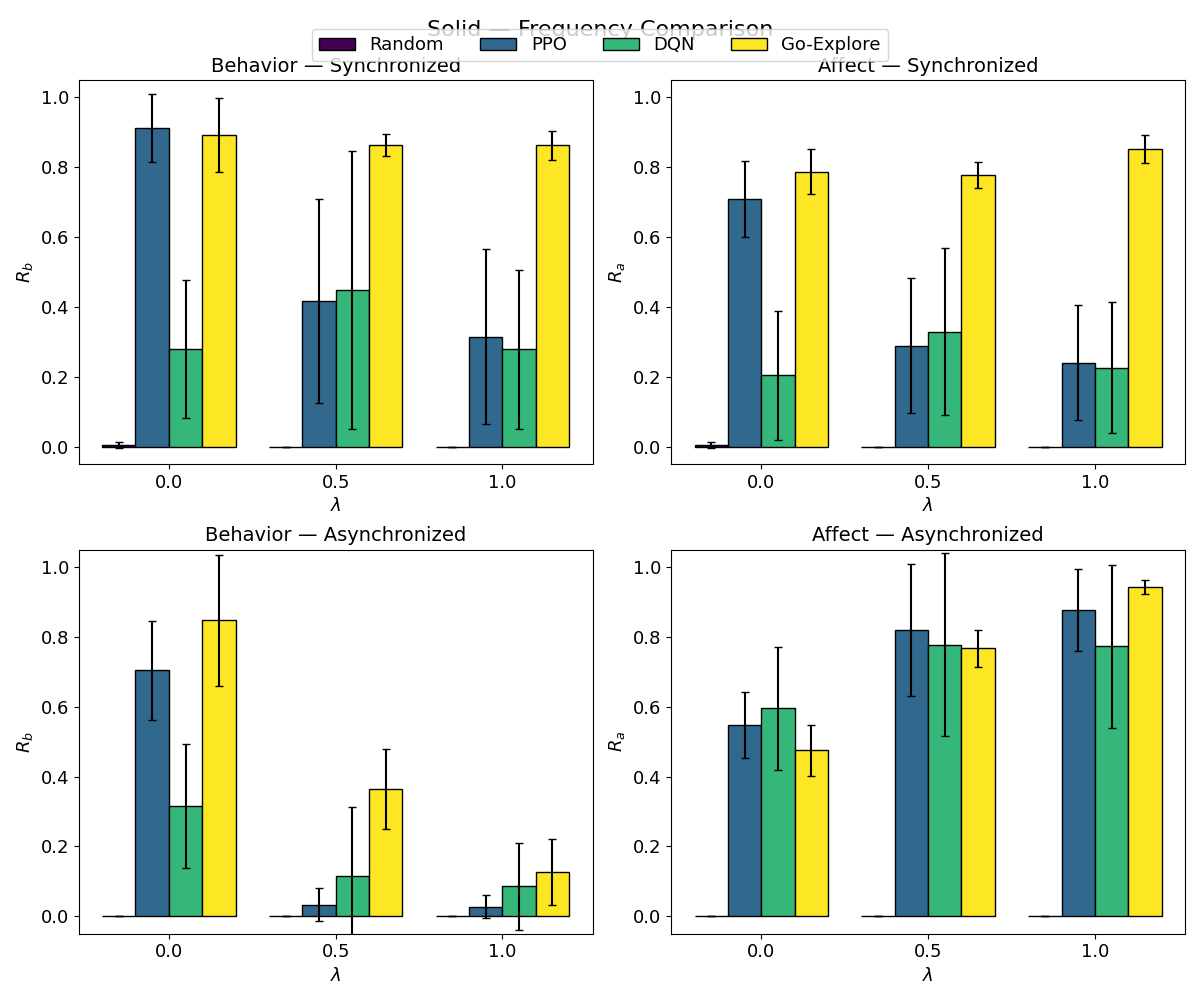
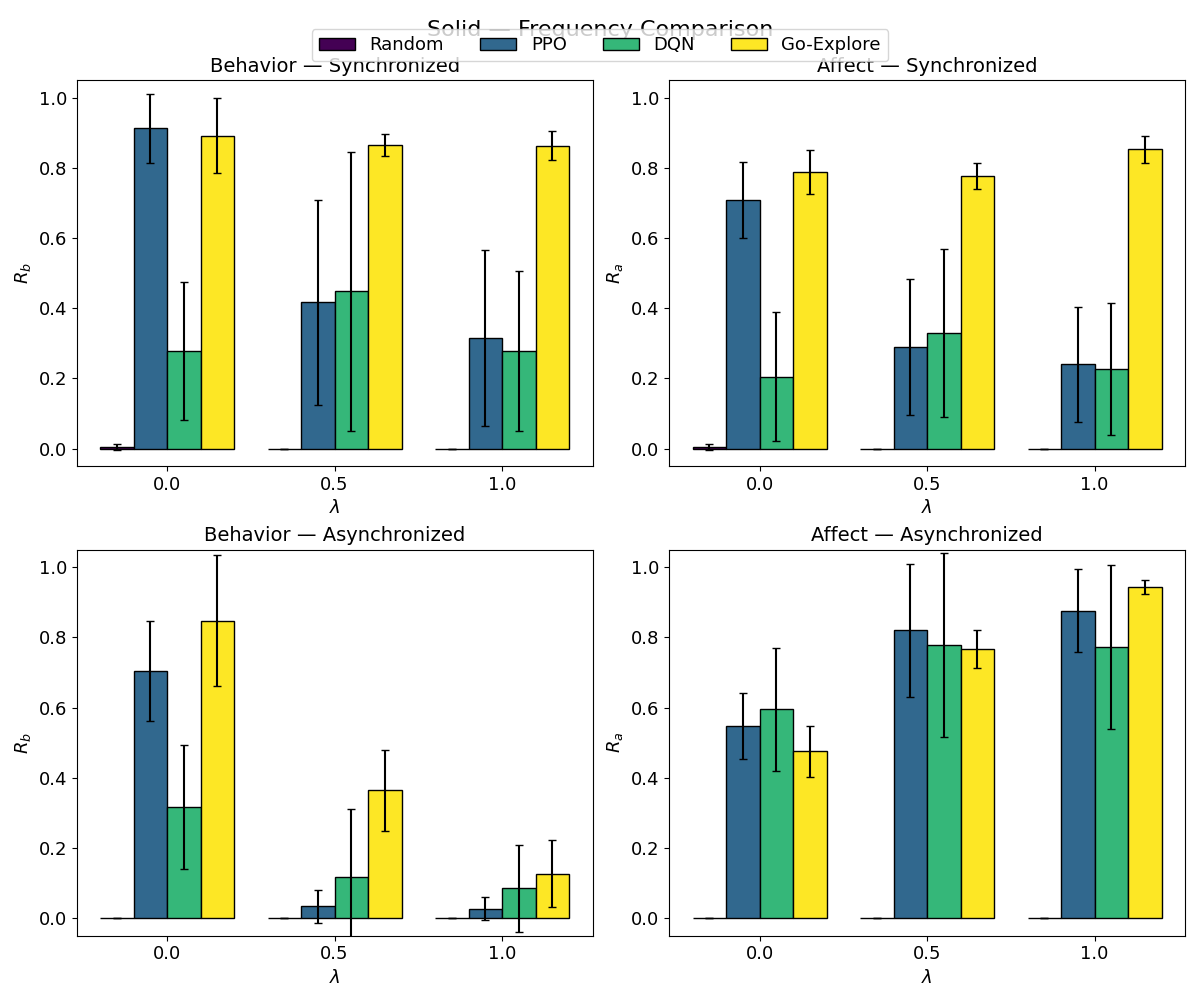
results

diff --git a/results/analysis/solid_personas/table_Ra_lambda1.tex b/results/analysis/solid_personas/table_Ra_lambda1.tex
@@ -1,0 +1,26 @@
+\begin{table}[ht]
+\centering
+\caption{$R_a$ results for $\lambda=1.0$. Random baseline uses $\lambda=0$ synchronized run; Minimize values are $1 - R_a^{\text{max}}$ for Random. \textbf{Bold} indicates best per game and metric.}
+\label{tab:ra_lambda1}
+\begin{tabular}{lccccccccc}
+\toprule
+Algorithm & \multicolumn{3}{c}{Racing} & \multicolumn{3}{c}{Platformer} & \multicolumn{3}{c}{FPS} \\
+\cmidrule(lr){2-4} \cmidrule(lr){5-7} \cmidrule(lr){8-10}
+ & Sync $R_a$ & Sync Return & Async $R_a$ & Sync $R_a$ & Sync Return & Async $R_a$ & Sync $R_a$ & Sync Return & Async $R_a$ \\
+\midrule
+\multicolumn{10}{l}{\textit{Maximize Arousal}} \\
+\midrule
+Random & 0.004 $\pm$ 0.009 & \textbf{0.815 $\pm$ 0.060} & 0.004 $\pm$ 0.009 & 0.050 $\pm$ 0.022 & \textbf{0.815 $\pm$ 0.056} & 0.050 $\pm$ 0.022 & 0.000 $\pm$ 0.000 & 0.075 $\pm$ 0.029 & 0.000 $\pm$ 0.000 \\
+PPO & 0.258 $\pm$ 0.165 & 0.680 $\pm$ 0.060 & 0.940 $\pm$ 0.084 & 0.140 $\pm$ 0.070 & 0.800 $\pm$ 0.081 & \textbf{1.000 $\pm$ 0.000} & 0.000 $\pm$ 0.000 & \textbf{0.743 $\pm$ 0.281} & 0.865 $\pm$ 0.218 \\
+DQN & 0.255 $\pm$ 0.242 & 0.631 $\pm$ 0.244 & 0.708 $\pm$ 0.276 & 0.163 $\pm$ 0.083 & 0.662 $\pm$ 0.133 & 0.947 $\pm$ 0.082 & 0.000 $\pm$ 0.000 & 0.168 $\pm$ 0.053 & \textbf{0.895 $\pm$ 0.102} \\
+Go-Explore & \textbf{0.925 $\pm$ 0.039} & 0.700 $\pm$ 0.050 & \textbf{0.965 $\pm$ 0.009} & \textbf{0.492 $\pm$ 0.081} & 0.708 $\pm$ 0.055 & 0.914 $\pm$ 0.026 & \textbf{0.168 $\pm$ 0.042} & 0.322 $\pm$ 0.091 & 0.823 $\pm$ 0.035 \\
+\midrule
+\multicolumn{10}{l}{\textit{Minimize Arousal}} \\
+\midrule
+Random & \textbf{0.996 $\pm$ 0.009} & 0.185 $\pm$ 0.060 & \textbf{0.996 $\pm$ 0.009} & \textbf{0.950 $\pm$ 0.022} & 0.185 $\pm$ 0.056 & \textbf{0.950 $\pm$ 0.022} & \textbf{1.000 $\pm$ 0.000} & \textbf{0.925 $\pm$ 0.029} & \textbf{1.000 $\pm$ 0.000} \\
+PPO & 0.222 $\pm$ 0.163 & 0.586 $\pm$ 0.154 & 0.812 $\pm$ 0.150 & 0.145 $\pm$ 0.091 & 0.320 $\pm$ 0.128 & 0.550 $\pm$ 0.283 & 0.008 $\pm$ 0.012 & 0.398 $\pm$ 0.298 & 0.818 $\pm$ 0.188 \\
+DQN & 0.198 $\pm$ 0.133 & \textbf{0.713 $\pm$ 0.242} & 0.838 $\pm$ 0.193 & 0.056 $\pm$ 0.055 & 0.258 $\pm$ 0.168 & 0.421 $\pm$ 0.404 & 0.052 $\pm$ 0.033 & 0.745 $\pm$ 0.159 & 0.767 $\pm$ 0.180 \\
+Go-Explore & 0.779 $\pm$ 0.040 & 0.331 $\pm$ 0.055 & 0.920 $\pm$ 0.030 & 0.355 $\pm$ 0.149 & \textbf{0.436 $\pm$ 0.120} & 0.754 $\pm$ 0.057 & 0.172 $\pm$ 0.014 & 0.870 $\pm$ 0.084 & 0.970 $\pm$ 0.007 \\
+\bottomrule
+\end{tabular}
+\end{table}

diff --git a/results/analysis/solid_personas/table_Rb_lambda1.tex b/results/analysis/solid_personas/table_Rb_lambda1.tex
@@ -1,0 +1,26 @@
+\begin{table}[ht]
+\centering
+\caption{$R_b$ results for $\lambda=1.0$. Random baseline uses $\lambda=0$ synchronized run. \textbf{Bold} indicates best per game and condition.}
+\label{tab:rb_lambda1}
+\begin{tabular}{lcccccc}
+\toprule
+Algorithm & \multicolumn{2}{c}{Racing} & \multicolumn{2}{c}{Platformer} & \multicolumn{2}{c}{FPS} \\
+\cmidrule(lr){2-3} \cmidrule(lr){4-5} \cmidrule(lr){6-7}
+ & Sync & Async & Sync & Async & Sync & Async \\
+\midrule
+\multicolumn{7}{l}{\textit{Maximize Arousal}} \\
+\midrule
+Random & 0.004 $\pm$ 0.009 & 0.004 $\pm$ 0.009 & 0.057 $\pm$ 0.027 & \textbf{0.057 $\pm$ 0.027} & 0.000 $\pm$ 0.000 & 0.000 $\pm$ 0.000 \\
+PPO & 0.321 $\pm$ 0.241 & 0.029 $\pm$ 0.035 & 0.217 $\pm$ 0.125 & 0.000 $\pm$ 0.000 & 0.004 $\pm$ 0.009 & 0.000 $\pm$ 0.000 \\
+DQN & 0.312 $\pm$ 0.288 & \textbf{0.108 $\pm$ 0.171} & 0.253 $\pm$ 0.125 & 0.011 $\pm$ 0.019 & 0.000 $\pm$ 0.000 & 0.000 $\pm$ 0.000 \\
+Go-Explore & \textbf{0.929 $\pm$ 0.040} & 0.100 $\pm$ 0.081 & \textbf{0.554 $\pm$ 0.100} & 0.053 $\pm$ 0.030 & \textbf{0.188 $\pm$ 0.041} & \textbf{0.060 $\pm$ 0.020} \\
+\midrule
+\multicolumn{7}{l}{\textit{Minimize Arousal}} \\
+\midrule
+Random & 0.004 $\pm$ 0.009 & 0.004 $\pm$ 0.009 & 0.057 $\pm$ 0.027 & 0.057 $\pm$ 0.027 & 0.000 $\pm$ 0.000 & 0.000 $\pm$ 0.000 \\
+PPO & 0.310 $\pm$ 0.262 & 0.025 $\pm$ 0.032 & 0.267 $\pm$ 0.123 & 0.022 $\pm$ 0.026 & 0.012 $\pm$ 0.014 & 0.004 $\pm$ 0.009 \\
+DQN & 0.245 $\pm$ 0.167 & 0.062 $\pm$ 0.076 & 0.106 $\pm$ 0.098 & 0.012 $\pm$ 0.020 & 0.056 $\pm$ 0.034 & 0.000 $\pm$ 0.000 \\
+Go-Explore & \textbf{0.796 $\pm$ 0.043} & \textbf{0.154 $\pm$ 0.110} & \textbf{0.435 $\pm$ 0.148} & \textbf{0.081 $\pm$ 0.034} & \textbf{0.172 $\pm$ 0.014} & \textbf{0.028 $\pm$ 0.019} \\
+\bottomrule
+\end{tabular}
+\end{table}

diff --git a/results/analysis/solid_personas/table_lambda0_sync.tex b/results/analysis/solid_personas/table_lambda0_sync.tex
@@ -1,0 +1,15 @@
+\begin{table}[ht]
+\centering
+\caption{Arousal return results for $\lambda=0.0$, Synchronized frequency (Maximize Arousal task). Values shown as mean $\pm$ 95\% CI. \textbf{Bold} indicates best per game.}
+\label{tab:results_lambda0_sync}
+\begin{tabular}{lccc}
+\toprule
+Algorithm & Racing & Platformer & FPS \\
+\midrule
+Random & \textbf{0.815 $\pm$ 0.060} & \textbf{0.815 $\pm$ 0.056} & 0.075 $\pm$ 0.029 \\
+PPO & 0.755 $\pm$ 0.075 & 0.555 $\pm$ 0.163 & 0.360 $\pm$ 0.249 \\
+DQN & 0.539 $\pm$ 0.201 & 0.718 $\pm$ 0.062 & \textbf{0.396 $\pm$ 0.327} \\
+Go-Explore & 0.647 $\pm$ 0.052 & 0.756 $\pm$ 0.077 & 0.180 $\pm$ 0.068 \\
+\bottomrule
+\end{tabular}
+\end{table}
